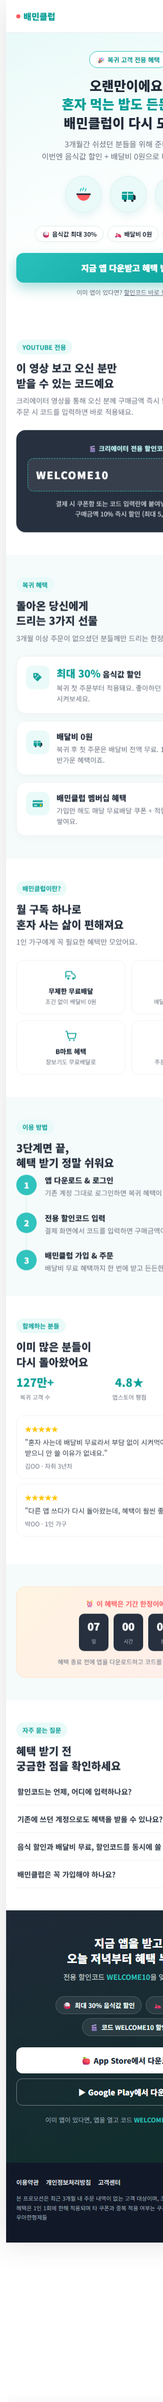
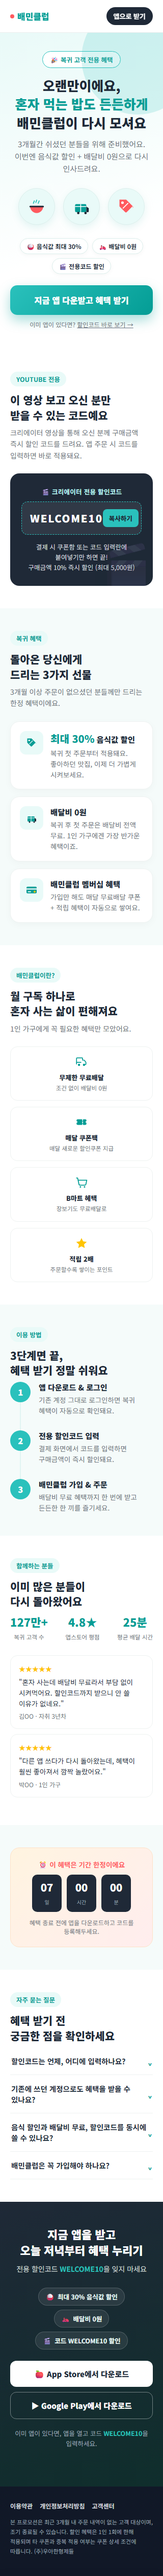
Fix headless Chrome mobile screenshots clamped below 522px width
Headless Chrome (155.x) silently clamps requested window widths
under ~522px, so mobile-375.png and foldable-320.png were actually
rendered at ~504px and cropped, hiding the header CTA and causing
text overflow. Redo mobile/narrow captures via CDP with
Emulation.setDeviceMetricsOverride, which bypasses the window
floor, and add precise per-CTA crops (screenshots/cta/) for the 5
tracked CTAs plus a capture script for reproducibility.

diff --git a/screenshots/cta/capture.py b/screenshots/cta/capture.py
@@ -1,0 +1,123 @@
+import json
+import time
+import base64
+import requests
+import websocket
+
+CDP = "http://localhost:9333"
+URL = "https://ga-eul.github.io/123/baemin_club_landing.html"
+OUT = "C:/Users/user/Desktop/GTM 실습/screenshots/cta"
+
+CTAS = {
+    "header_cta": "header_cta",
+    "hero_primary_cta": "hero_primary_cta",
+    "sticky_cta": "sticky_cta",
+    "final_app_store": "final_app_store",
+    "final_google_play": "final_google_play",
+}
+
+class CDPSession:
+    def __init__(self, ws_url):
+        self.ws = websocket.create_connection(ws_url, timeout=20)
+        self.msg_id = 0
+
+    def send(self, method, params=None):
+        self.msg_id += 1
+        payload = {"id": self.msg_id, "method": method, "params": params or {}}
+        self.ws.send(json.dumps(payload))
+        return self.msg_id
+
+    def recv_until(self, target_id):
+        while True:
+            raw = self.ws.recv()
+            data = json.loads(raw)
+            if data.get("id") == target_id:
+                return data
+
+    def call(self, method, params=None):
+        mid = self.send(method, params)
+        return self.recv_until(mid)
+
+
+def new_tab():
+    r = requests.put(f"{CDP}/json/new?about:blank")
+    r.raise_for_status()
+    return r.json()
+
+
+def close_tab(tab_id):
+    requests.get(f"{CDP}/json/close/{tab_id}")
+
+
+def main():
+    tab = new_tab()
+    sess = CDPSession(tab["webSocketDebuggerUrl"])
+
+    sess.call("Page.enable")
+    sess.call("Emulation.setDeviceMetricsOverride", {
+        "width": 390, "height": 844, "deviceScaleFactor": 2, "mobile": True
+    })
+    sess.call("Page.navigate", {"url": URL})
+    time.sleep(3.5)  # let fonts/scripts settle
+
+    vw = sess.call("Runtime.evaluate", {"expression": "window.innerWidth", "returnByValue": True})
+    print("innerWidth via CDP:", vw["result"]["result"]["value"])
+
+    # 1) Full page screenshot (natural scroll position, sticky bar hidden as real users see it pre-scroll)
+    full = sess.call("Page.captureScreenshot", {"format": "png", "captureBeyondViewport": False})
+    with open(f"{OUT}/mobile_390_viewport.png", "wb") as f:
+        f.write(base64.b64decode(full["result"]["data"]))
+
+    # 2) Per-CTA precise crops via element clip
+    for name, cta_id in CTAS.items():
+        if cta_id == "sticky_cta":
+            sess.call("Runtime.evaluate", {"expression": "window.scrollTo(0,0)"})
+            time.sleep(0.3)
+            # Force the sticky bar into its shown state for this capture only
+            sess.call("Runtime.evaluate", {"expression": "document.getElementById('stickyCta').classList.add('show')"})
+            time.sleep(0.3)
+        else:
+            scroll_expr = f"""
+            (function(){{
+              const el = document.querySelector('[data-cta-id="{cta_id}"]');
+              const r = el.getBoundingClientRect();
+              const target = window.scrollY + r.top - (window.innerHeight/2 - r.height/2);
+              window.scrollTo(0, Math.max(0, target));
+            }})()
+            """
+            sess.call("Runtime.evaluate", {"expression": scroll_expr})
+            time.sleep(0.6)
+
+        rect_expr = f"""
+        (function(){{
+          const el = document.querySelector('[data-cta-id="{cta_id}"]');
+          const r = el.getBoundingClientRect();
+          return JSON.stringify({{x:r.x, y:r.y, width:r.width, height:r.height, scrollY:window.scrollY}});
+        }})()
+        """
+        rect_res = sess.call("Runtime.evaluate", {"expression": rect_expr, "returnByValue": True})
+        rect = json.loads(rect_res["result"]["result"]["value"])
+        print(name, rect)
+
+        pad = 14
+        clip = {
+            "x": max(0, rect["x"] - pad),
+            "y": max(0, rect["y"] + rect["scrollY"] - pad),
+            "width": rect["width"] + pad * 2,
+            "height": rect["height"] + pad * 2,
+            "scale": 1,
+        }
+        shot = sess.call("Page.captureScreenshot", {"format": "png", "clip": clip})
+        with open(f"{OUT}/{name}.png", "wb") as f:
+            f.write(base64.b64decode(shot["result"]["data"]))
+
+        if cta_id == "sticky_cta":
+            sess.call("Runtime.evaluate", {"expression": "document.getElementById('stickyCta').classList.remove('show')"})
+
+    sess.ws.close()
+    close_tab(tab["id"])
+    print("done")
+
+
+if __name__ == "__main__":
+    main()
